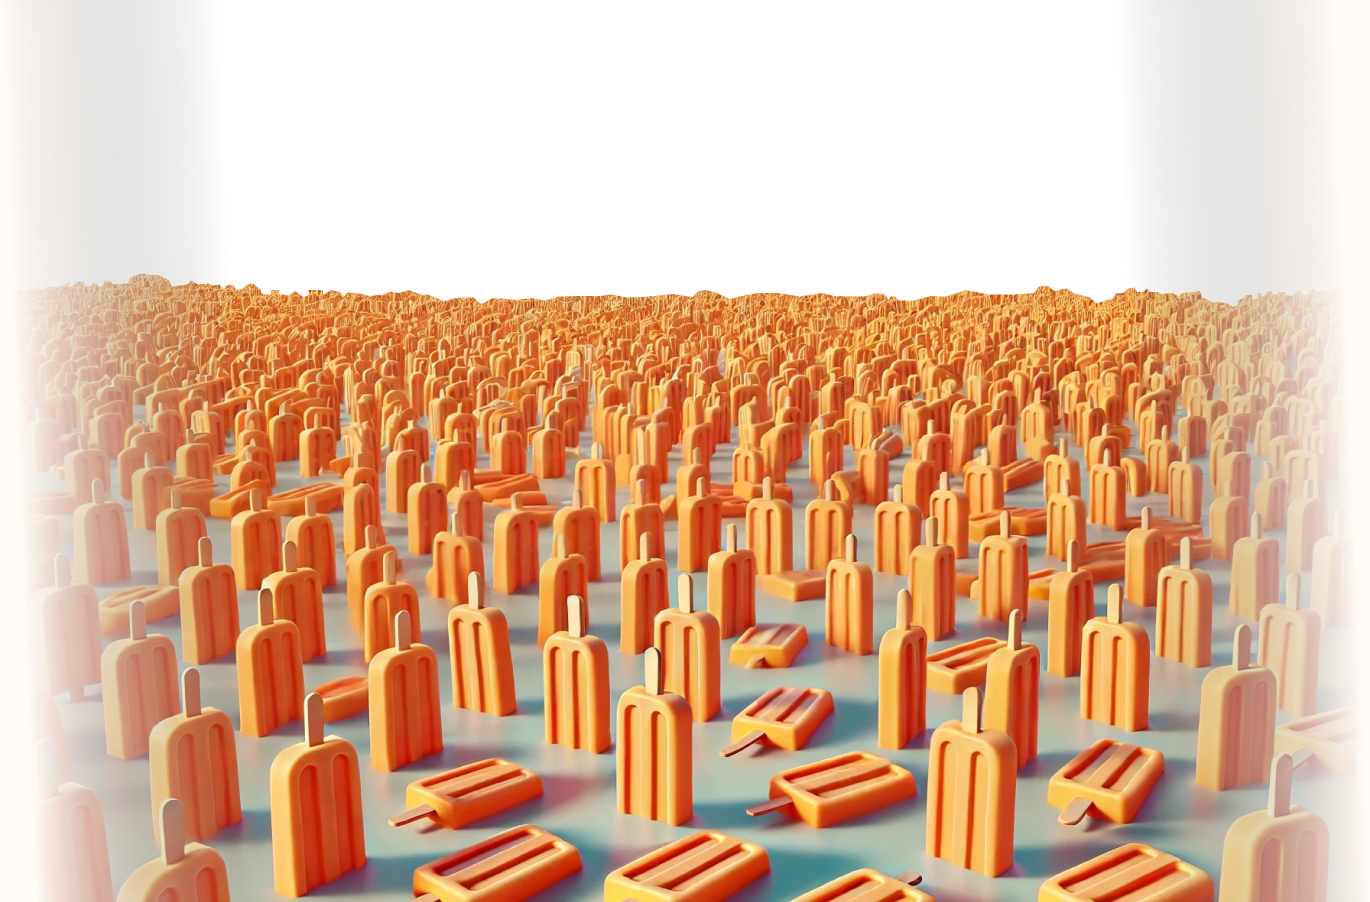
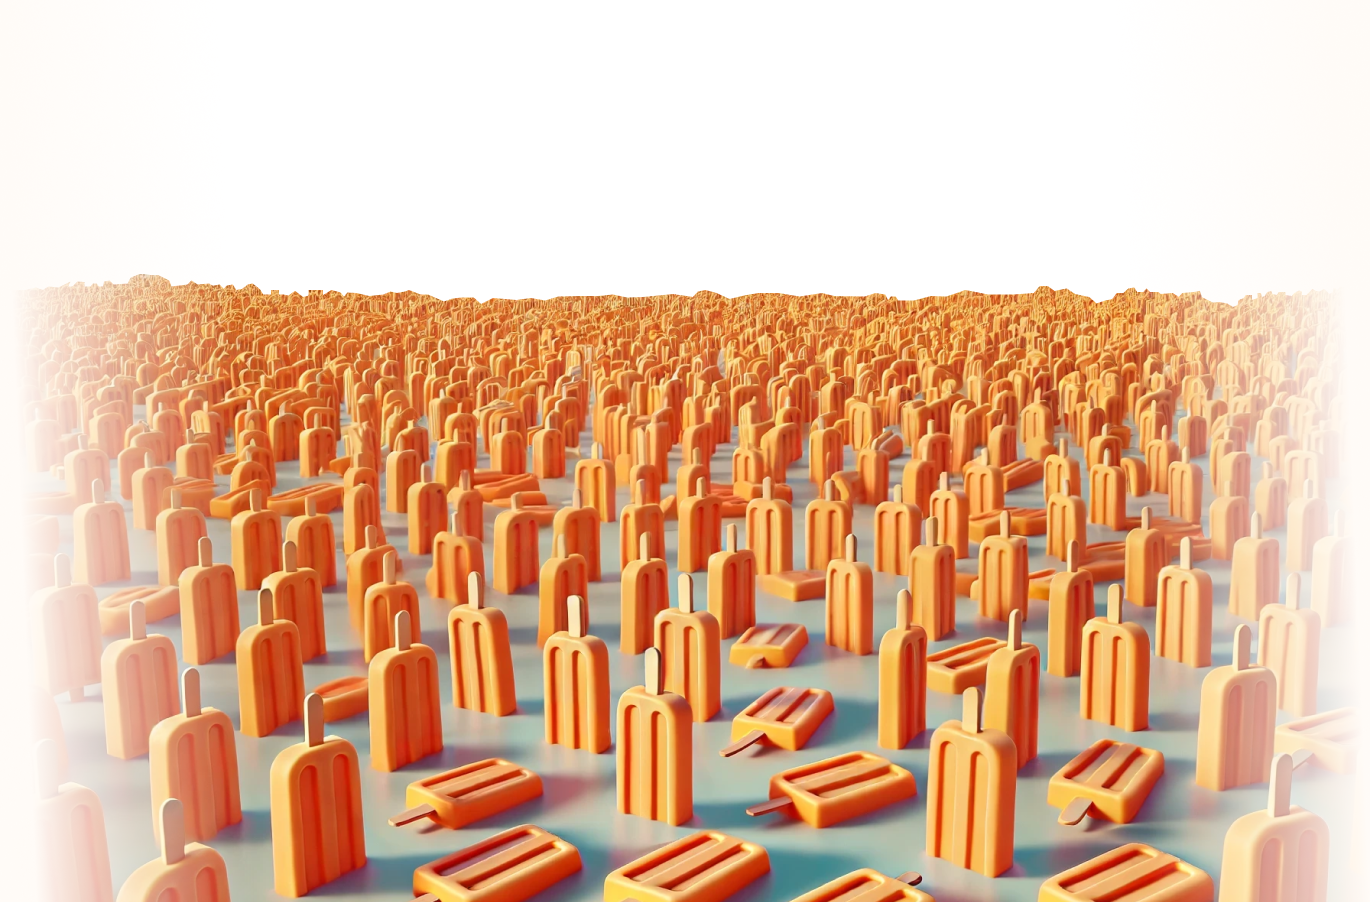
fix: update background and mobile layout - Replace dreamcycle.png with new version - Reduce module padding to 4px on mobile - Ensure background image maintains minimum width - Improve responsive layout

Changed region(s): [[0.0613, 0.0, 0.1226, 1.0], [0.8584, 0.0, 0.9504, 1.0]]

diff --git a/src/components/Dashboard.tsx b/src/components/Dashboard.tsx
@@ -60,9 +60,10 @@ export default function Dashboard() {
       <div style={{
         position: 'fixed',
         bottom: 0,
-        left: 0,
-        right: 0,
+        left: '50%',
+        transform: 'translateX(-50%)',
         width: '100%',
+        minWidth: 'calc(min(100vw, 1400px) + 20px)', // Match widest module + 20px
         height: '100vh',
         zIndex: 0,
         backgroundImage: 'url(/images/dreamcycle.png)',
@@ -79,8 +80,11 @@ export default function Dashboard() {
         width: '100%',
         maxWidth: '1400px',
         margin: '0 auto',
-        padding: '0 16px', // Reduced padding for mobile
-        boxSizing: 'border-box'
+        padding: '0 32px',
+        boxSizing: 'border-box',
+        '@media (max-width: 768px)': {
+          padding: '0 4px' // Reduce padding on mobile
+        }
       }}>
         {/* Header - Simple logo and info icon */}
         <div style={{ 
